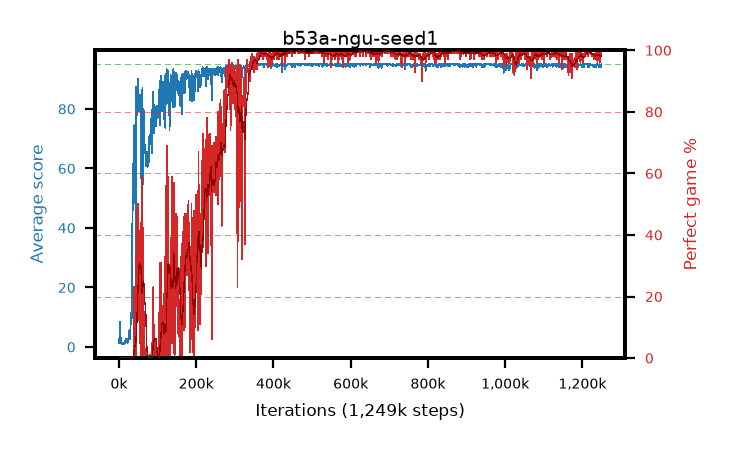
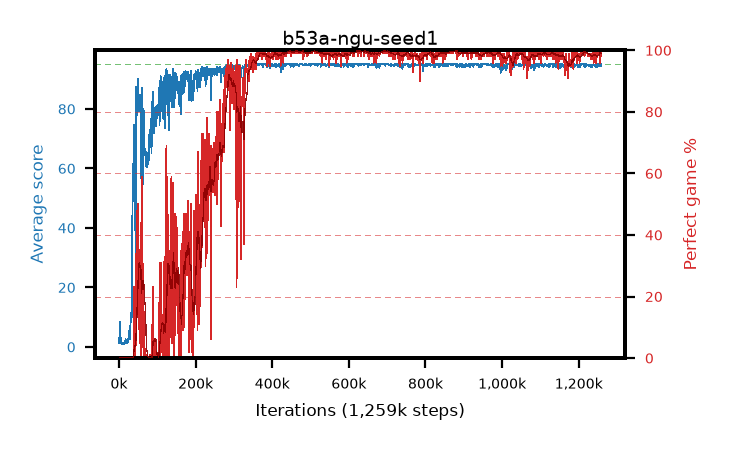
live pictures of 4 arm(s)

diff --git a/results/b53c-ngu-seed3/b53c-ngu-seed3.md b/results/b53c-ngu-seed3/b53c-ngu-seed3.md
@@ -1,6 +1,6 @@
 # b53c-ngu-seed3
 
-step **1,239,000** · 1239 evals · trailing **94.76** · peak **94.93** @574,000 · sef **81.5** · best30 **99.6** @585,000
+step **1,249,000** · 1249 evals · trailing **94.73** · peak **94.93** @574,000 · sef **81.7** · best30 **99.6** @585,000
 
 ## Config
 
@@ -80,15 +80,15 @@ step **1,239,000** · 1239 evals · trailing **94.76** · peak **94.93** @574,00
 | 2000 | 6.19 | 3.38 | 0.0 | 14.0 | 2.147 | 0.0 | 0.4 |
 | 3000 | 12.02 | 6.26 | 1.0 | 18.0 | 7.496 | 0.0 | 0.4 |
 | ... | ... | ... | ... | ... | ... | ... | ... |
-| 1228000 | 94.95 | 94.85 | 90.0 | 95.0 | 192.661 | 99.0 | 0.4 |
-| 1229000 | 95.0 | 94.88 | 95.0 | 95.0 | 193.708 | 100.0 | 0.4 |
-| 1230000 | 94.78 | 94.89 | 73.0 | 95.0 | 192.483 | 99.0 | 0.4 |
-| 1231000 | 94.99 | 94.89 | 94.0 | 95.0 | 192.661 | 99.0 | 0.4 |
-| 1232000 | 94.04 | 94.86 | 39.0 | 95.0 | 189.634 | 97.0 | 0.4 |
-| 1233000 | 94.97 | 94.86 | 92.0 | 95.0 | 192.608 | 99.0 | 0.4 |
-| 1234000 | 94.24 | 94.83 | 39.0 | 95.0 | 189.903 | 97.0 | 0.4 |
-| 1235000 | 95.0 | 94.83 | 95.0 | 95.0 | 193.688 | 100.0 | 0.4 |
-| 1236000 | 94.64 | 94.82 | 64.0 | 95.0 | 191.359 | 98.0 | 0.4 |
-| 1237000 | 92.96 | 94.76 | 19.0 | 95.0 | 185.57 | 94.0 | 0.4 |
 | 1238000 | 94.98 | 94.76 | 93.0 | 95.0 | 192.689 | 99.0 | 0.4 |
 | 1239000 | 95.0 | 94.76 | 95.0 | 95.0 | 193.724 | 100.0 | 0.4 |
+| 1240000 | 95.0 | 94.76 | 95.0 | 95.0 | 193.71 | 100.0 | 0.4 |
+| 1241000 | 94.97 | 94.76 | 92.0 | 95.0 | 192.669 | 99.0 | 0.4 |
+| 1242000 | 94.8 | 94.77 | 84.0 | 95.0 | 190.477 | 97.0 | 0.4 |
+| 1243000 | 93.71 | 94.73 | 13.0 | 95.0 | 189.304 | 97.0 | 0.4 |
+| 1244000 | 95.0 | 94.76 | 95.0 | 95.0 | 193.712 | 100.0 | 0.4 |
+| 1245000 | 94.16 | 94.75 | 31.0 | 95.0 | 190.837 | 98.0 | 0.4 |
+| 1246000 | 94.46 | 94.73 | 55.0 | 95.0 | 191.095 | 98.0 | 0.4 |
+| 1247000 | 94.97 | 94.73 | 92.0 | 95.0 | 192.683 | 99.0 | 0.4 |
+| 1248000 | 95.0 | 94.73 | 95.0 | 95.0 | 193.693 | 100.0 | 0.4 |
+| 1249000 | 94.95 | 94.73 | 90.0 | 95.0 | 192.614 | 99.0 | 0.4 |

diff --git a/results/b53a-ngu-seed1/b53a-ngu-seed1.md b/results/b53a-ngu-seed1/b53a-ngu-seed1.md
@@ -1,6 +1,6 @@
 # b53a-ngu-seed1
 
-step **1,249,000** · 1249 evals · trailing **94.71** · peak **94.96** @643,000 · sef **77.5** · best30 **99.7** @643,000
+step **1,259,000** · 1259 evals · trailing **94.69** · peak **94.96** @643,000 · sef **77.7** · best30 **99.7** @643,000
 
 ## Config
 
@@ -80,15 +80,15 @@ step **1,249,000** · 1249 evals · trailing **94.71** · peak **94.96** @643,00
 | 2000 | 8.43 | 4.84 | 0.0 | 21.0 | 7.201 | 0.0 | 0.4 |
 | 3000 | 8.52 | 6.07 | 0.0 | 26.0 | 5.525 | 0.0 | 0.4 |
 | ... | ... | ... | ... | ... | ... | ... | ... |
-| 1238000 | 95.0 | 94.78 | 95.0 | 95.0 | 193.689 | 100.0 | 0.4 |
-| 1239000 | 94.8 | 94.78 | 85.0 | 95.0 | 189.376 | 96.0 | 0.4 |
-| 1240000 | 94.84 | 94.77 | 79.0 | 95.0 | 192.503 | 99.0 | 0.4 |
-| 1241000 | 94.83 | 94.77 | 80.0 | 95.0 | 191.46 | 98.0 | 0.4 |
-| 1242000 | 94.88 | 94.76 | 83.0 | 95.0 | 192.543 | 99.0 | 0.4 |
-| 1243000 | 94.2 | 94.74 | 15.0 | 95.0 | 191.858 | 99.0 | 0.4 |
-| 1244000 | 94.86 | 94.73 | 84.0 | 95.0 | 191.519 | 98.0 | 0.4 |
-| 1245000 | 94.07 | 94.73 | 27.0 | 95.0 | 188.61 | 96.0 | 0.4 |
-| 1246000 | 94.56 | 94.72 | 75.0 | 95.0 | 190.138 | 97.0 | 0.4 |
-| 1247000 | 94.04 | 94.69 | 6.0 | 95.0 | 190.643 | 98.0 | 0.4 |
 | 1248000 | 94.9 | 94.71 | 85.0 | 95.0 | 192.54 | 99.0 | 0.4 |
 | 1249000 | 95.0 | 94.71 | 95.0 | 95.0 | 193.699 | 100.0 | 0.4 |
+| 1250000 | 94.87 | 94.71 | 82.0 | 95.0 | 192.58 | 99.0 | 0.4 |
+| 1251000 | 94.43 | 94.7 | 38.0 | 95.0 | 192.069 | 99.0 | 0.4 |
+| 1252000 | 95.0 | 94.71 | 95.0 | 95.0 | 193.705 | 100.0 | 0.4 |
+| 1253000 | 94.72 | 94.7 | 67.0 | 95.0 | 192.396 | 99.0 | 0.4 |
+| 1254000 | 95.0 | 94.7 | 95.0 | 95.0 | 193.686 | 100.0 | 0.4 |
+| 1255000 | 95.0 | 94.7 | 95.0 | 95.0 | 193.677 | 100.0 | 0.4 |
+| 1256000 | 94.31 | 94.7 | 58.0 | 95.0 | 188.859 | 96.0 | 0.4 |
+| 1257000 | 94.97 | 94.7 | 92.0 | 95.0 | 192.634 | 99.0 | 0.4 |
+| 1258000 | 94.38 | 94.69 | 58.0 | 95.0 | 191.027 | 98.0 | 0.4 |
+| 1259000 | 95.0 | 94.69 | 95.0 | 95.0 | 193.683 | 100.0 | 0.4 |
